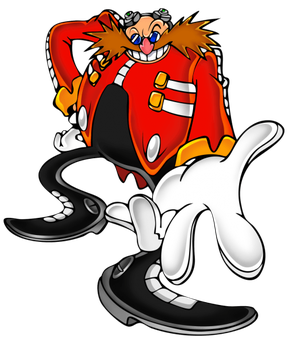
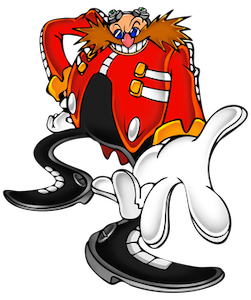
Performance Enhance

diff --git a/index.html b/index.html
@@ -36,7 +36,7 @@
                   </li>
               </ul>
           </nav>
-          <img src="images/menuicon.webp" class="menu-icon" id="menuToggle" alt="menu icon">
+          <img src="images/menuicon.webp" class="menu-icon" id="menuToggle" alt="menu icon" width="256px" height="256px">
       </div>
     </Header>
 
@@ -55,7 +55,7 @@
         <h2>About Us</h2>
       </div>
       <div class="about">
-        <img src="images/sonicthums.gif" alt="Sonic Thumbs Up">
+        <img src="images/sonicthums.gif" alt="Sonic Thumbs Up" width="500px" height="602px">
       </div>
       <div class="about-left">
         <h3> Our History</h3>
@@ -118,7 +118,7 @@
             Collecting rings as a form of health<br>
             Jumping and attacking controlled by a single button<br>
           </p>
-          <video controls loop>
+          <video controls loop preload="none">
             <source src="images/sonicanimation.mp4" type="video/mp4">
             <source src="images/sonicanimation.mp4" type="video/ogg">
             Your browser does not support the video tag.
@@ -131,7 +131,7 @@
         <h2>Characters</h2>
       </div>
       <div class="sonic">
-        <img src="images/sonicimg.png" alt="Sonic Waiting">
+        <img src="images/sonicimg.png" alt="Sonic Waiting" width="230px" height="300px">
         <h3>Sonic</h3>
         <p>Protagonist</p>
         <p>Brave</p>
@@ -139,11 +139,11 @@
       </div>
 
       <div class="versus">
-        <img src="images/vs.png" class="Versus">
+        <img src="images/vs.png" class="Versus" width="351px" height="300px">
       </div>
 
       <div class="eggman">
-        <img src="images/dreggman.png" alt="Dr Eggman">
+        <img src="images/dreggman.png" alt="Dr Eggman" width="251px" height="300px">
         <h3>Dr. Eggman</h3>
         <p>Antagonist</p>
         <p>Controls Robots</p>
@@ -156,50 +156,50 @@
       <h2>Soundtracks</h2>
   </div>
   <div class="soundtrack">
-      <div class="soundtrack1">
-        <h3>Opening Theme Song</h3>
-        <audio src="images/sonic1intro.mp3" controls></audio>
-      </div>
-      <div class="soundtrack2">
-        <h3>Green Hill Zone</h3>
-        <audio src="images/greenhill.mp3" controls></audio>
-      </div>
-      <div class="soundtrack3">
-        <h3>Marble Zone</h3>
-        <audio src="images/marblezone.mp3" controls></audio>
-      </div>
-      <div class="soundtrack4">
-        <h3>Spring Yard Zone</h3>
-        <audio src="images/springyard.mp3" controls></audio>
-      </div>
-      <div class="soundtrack5">
-        <h3>Labyrinth Zone</h3>
-        <audio src="images/labyrinthzone.mp3" controls></audio>
-      </div>
-      <div class="soundtrack6">
-        <h3>Star Light Zone</h3>
-        <audio src="images/starlightzone.mp3" controls></audio>
-      </div>
-      <div class="soundtrack7">
-        <h3>Scrap Brain Zone</h3>
-        <audio src="images/scrapbrainzone.mp3" controls></audio>
-      </div>
-      <div class="soundtrack8">
-        <h3>Final Zone</h3>
-        <audio src="images/finalzone.mp3" controls></audio>
-      </div>
-      <div class="soundtrack9">
-        <h3>Boss Theme</h3>
-        <audio src="images/bosstheme.mp3" controls></audio>
-      </div>
-      <div class="soundtrack10">
-        <h3>Special Stage</h3>
-        <audio src="images/specialstage.mp3" controls></audio>
-      </div>
-      <div class="soundtrack11">
-        <h3>Staff Roll</h3>
-        <audio src="images/staffroll.mp3" controls></audio>
-      </div>
+    <div class="soundtrack1">
+      <h3>Opening Theme Song</h3>
+      <audio src="images/sonic1intro.mp3" controls preload='none'></audio>
+    </div>
+    <div class="soundtrack2">
+      <h3>Green Hill Zone</h3>
+      <audio src="images/greenhill.mp3" controls preload='none'></audio>
+    </div>
+    <div class="soundtrack3">
+      <h3>Marble Zone</h3>
+      <audio src="images/marblezone.mp3" controls preload='none'></audio>
+    </div>
+    <div class="soundtrack4">
+      <h3>Spring Yard Zone</h3>
+      <audio src="images/springyard.mp3" controls preload='none'></audio>
+    </div>
+    <div class="soundtrack5">
+      <h3>Labyrinth Zone</h3>
+      <audio src="images/labyrinthzone.mp3" controls preload='none'></audio>
+    </div>
+    <div class="soundtrack6">
+      <h3>Star Light Zone</h3>
+      <audio src="images/starlightzone.mp3" controls preload='none'></audio>
+    </div>
+    <div class="soundtrack7">
+      <h3>Scrap Brain Zone</h3>
+      <audio src="images/scrapbrainzone.mp3" controls preload='none'></audio>
+    </div>
+    <div class="soundtrack8">
+      <h3>Final Zone</h3>
+      <audio src="images/finalzone.mp3" controls preload='none'></audio>
+    </div>
+    <div class="soundtrack9">
+      <h3>Boss Theme</h3>
+      <audio src="images/bosstheme.mp3" controls preload='none'></audio>
+    </div>
+    <div class="soundtrack10">
+      <h3>Special Stage</h3>
+      <audio src="images/specialstage.mp3" controls preload='none'></audio>
+    </div>
+    <div class="soundtrack11">
+      <h3>Staff Roll</h3>
+      <audio src="images/staffroll.mp3" controls preload='none'></audio>
+    </div>
     </div>
   </div>
   </div>
